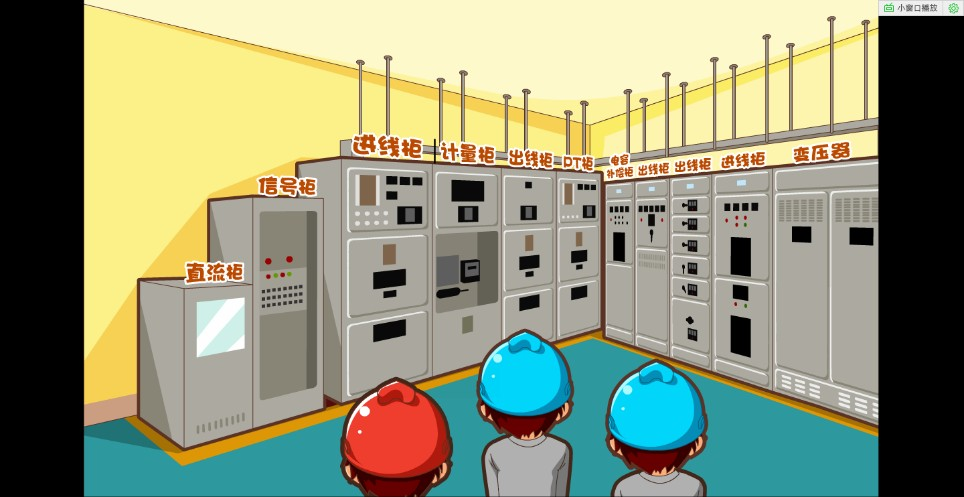
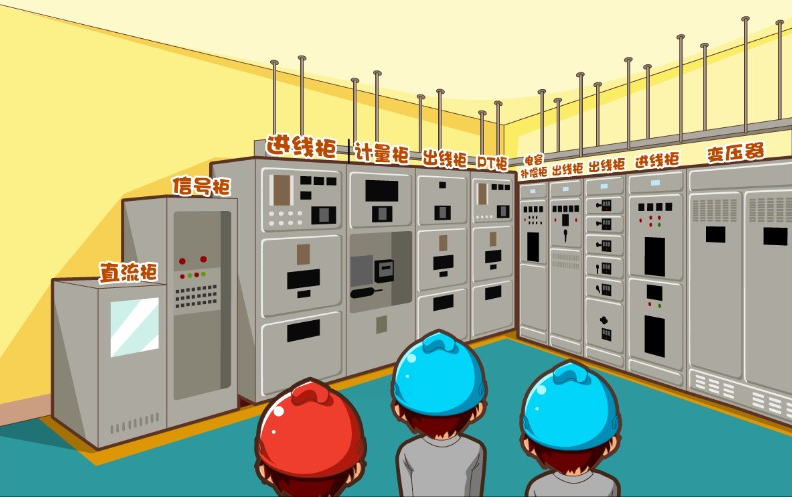
优化: 热区容器紧贴img实际渲染区域,百分比与图片等比例缩放

diff --git a/frontend/src/views/HighVoltage/HSceneOverviewView.vue b/frontend/src/views/HighVoltage/HSceneOverviewView.vue
@@ -3,8 +3,7 @@
   <div class="scene-page">
     <!-- 等比容器：始终与图片实际渲染区域重合，热区基于此定位 -->
     <div class="image-wrapper">
-      <img src="@/assets/images/DistributionRoomPanorama.png" alt="配电室总览"
-        class="scene-bg" draggable="false" />
+      <img src="@/assets/images/DistributionRoomPanorama.png" alt="配电室总览" class="scene-bg" draggable="false" />
       <!-- 横放等腰梯形热区：左底长(高)、右底短(低) -->
       <div class="cabinet-hotspot" title="点击进入设备区操作" @click="enterCabinet">
         <span class="hotspot-label">点击进入设备区操作</span>
@@ -17,7 +16,9 @@
     <!-- 保存进度按钮（右下角，仅样式占位） -->
     <div class="save-bar-fixed">
       <el-button type="info" size="default" disabled>
-        <el-icon><FolderOpened /></el-icon> 保存进度
+        <el-icon>
+          <FolderOpened />
+        </el-icon> 保存进度
       </el-button>
     </div>
 
@@ -53,21 +54,21 @@ function enterCabinet() {
   display: flex;
   align-items: center;
   justify-content: center;
-  background: #020617;
+  background: #FFFFFF;
 }
 
-/* 全视口容器：object-fit contain 自动取 min(100vw, 100vh) 等比缩放 */
+/* 容器紧贴 img 实际渲染尺寸，热区百分比与图片等比例缩放 */
 .image-wrapper {
   position: relative;
-  width: 100vw;
-  height: 100vh;
+  display: inline-block;
+  line-height: 0;
 }
 
 .scene-bg {
-  width: 100%;
-  height: 100%;
-  object-fit: contain;
   display: block;
+  max-width: 100vw;
+  max-height: 100vh;
+  /* 无 width/height → 取 min(按宽缩放, 按高缩放)，等比不压缩 */
 }
 
 /* 横放等腰梯形热区 — 左底长(高)、右底短(低) */
@@ -77,12 +78,15 @@ function enterCabinet() {
   left: 5%;
   width: 68%;
   height: 75%;
-  clip-path: polygon(
-    2% 2%,      /* 左上 */
-    72% 15%,    /* 右上（靠右靠上→右底短） */
-    72% 85%,    /* 右下 */
-    2% 98%      /* 左下（贴左贴底→左底长） */
-  );
+  clip-path: polygon(2% 2%,
+      /* 左上 */
+      72% 15%,
+      /* 右上（靠右靠上→右底短） */
+      72% 85%,
+      /* 右下 */
+      2% 98%
+      /* 左下（贴左贴底→左底长） */
+    );
   cursor: pointer;
   z-index: 5;
   transition: background 0.25s, box-shadow 0.25s;
